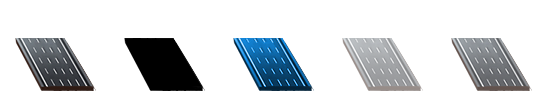
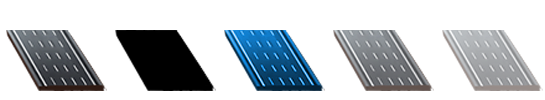
HW 1L to 6L Thumbnails uniformity

diff --git a/Transit.Addon.RoadExtensions/Highways/VanillaHighwayMenuModifier.cs b/Transit.Addon.RoadExtensions/Highways/VanillaHighwayMenuModifier.cs
@@ -1,0 +1,43 @@
+using Transit.Framework;
+using Transit.Framework.Builders;
+using Transit.Framework.Modularity;
+
+namespace Transit.Addon.RoadExtensions.Highways
+{
+    public class VanillaHighwayMenuModifier : IModulePart, INetInfoModifier
+    {
+        public string Name{ get { return "Vanilla Highway Menu Modifier"; } }
+
+        public void ModifyExistingNetInfo()
+        {
+            var highwayRampInfo = Prefabs.Find<NetInfo>(NetInfos.Vanilla.HIGHWAY_RAMP, false);
+            if (highwayRampInfo != null)
+            {
+                highwayRampInfo.m_UIPriority = 5;
+                var thumbnails = AssetManager.instance.GetThumbnails(NetInfos.Vanilla.HIGHWAY_RAMP, @"Highways\HighwayRamp\thumbnails.png");
+                highwayRampInfo.m_Atlas = thumbnails;
+                highwayRampInfo.m_Thumbnail = thumbnails.name;
+            }
+
+            var highway3L = Prefabs.Find<NetInfo>(NetInfos.Vanilla.HIGHWAY_3L, false);
+            if (highway3L != null)
+            {
+                highway3L.m_UIPriority = 30;
+                var thumbnails = AssetManager.instance.GetThumbnails(NetInfos.Vanilla.HIGHWAY_3L, @"Highways\Highway3L\thumbnails.png");
+                highway3L.m_Atlas = thumbnails;
+                highway3L.m_Thumbnail = thumbnails.name;
+                highway3L.ModifyTitle("Three-Lane Highway");
+            }
+
+            var highway3LBarrier = Prefabs.Find<NetInfo>(NetInfos.Vanilla.HIGHWAY_3L_BARRIER, false);
+            if (highway3LBarrier != null)
+            {
+                highway3LBarrier.m_UIPriority = 35;
+                var thumbnails = AssetManager.instance.GetThumbnails(NetInfos.Vanilla.HIGHWAY_3L_BARRIER, @"Highways\Highway3LBarrier\thumbnails.png");
+                highway3LBarrier.m_Atlas = thumbnails;
+                highway3LBarrier.m_Thumbnail = thumbnails.name;
+                highway3LBarrier.ModifyTitle("Three-Lane Highway with Sound Barrier");
+            }
+        }
+    }
+}

diff --git a/Transit.Addon.RoadExtensions/Roads/MediumAvenue4L/MediumAvenue4LBuilder.cs b/Transit.Addon.RoadExtensions/Roads/MediumAvenue4L/MediumAvenue4LBuilder.cs
@@ -1,10 +1,6 @@
-using System.Collections.Generic;
-using System.Linq;
-using ColossalFramework;
-using ColossalFramework.Globalization;
+using System.Linq;
 using Transit.Framework;
 using Transit.Framework.Builders;
-using Transit.Framework.Interfaces;
 
 namespace Transit.Addon.RoadExtensions.Roads.MediumAvenue4L
 {
@@ -136,19 +132,10 @@ namespace Transit.Addon.RoadExtensions.Roads.MediumAvenue4L
 
         public void ModifyExistingNetInfo()
         {
-            var localizedStringsField = typeof(Locale).GetFieldByName("m_LocalizedStrings");
-            var locale = SingletonLite<LocaleManager>.instance.GetLocale();
-            var localizedStrings = (Dictionary<Locale.Key, string>)localizedStringsField.GetValue(locale);
-
-            var kvp =
-                localizedStrings
-                .FirstOrDefault(kvpInternal =>
-                    kvpInternal.Key.m_Identifier == "NET_TITLE" &&
-                    kvpInternal.Key.m_Key == NetInfos.Vanilla.AVENUE_4L);
-
-            if (!Equals(kvp, default(KeyValuePair<Locale.Key, string>)))
+            var avenue4L = Prefabs.Find<NetInfo>(NetInfos.Vanilla.AVENUE_4L, false);
+            if (avenue4L != null)
             {
-                localizedStrings[kvp.Key] = "Four-Lane Road with Median";
+                avenue4L.ModifyTitle("Four-Lane Road with Median");
             }
         }
     }

diff --git a/Transit.Framework/_Extensions/NetInfoExtensions.cs b/Transit.Framework/_Extensions/NetInfoExtensions.cs
@@ -1,8 +1,8 @@
 using System;
+using System.Collections.Generic;
 using System.Linq;
-using System.Reflection;
-using UnityEngine;
-using Object = UnityEngine.Object;
+using ColossalFramework;
+using ColossalFramework.Globalization;
 
 #if DEBUG
 using Debug = Transit.Framework.Debug;
@@ -67,6 +67,24 @@ namespace Transit.Framework
             }
 
             return lane;
+        }
+
+        public static void ModifyTitle(this NetInfo info, string newTitle)
+        {
+            var localizedStringsField = typeof(Locale).GetFieldByName("m_LocalizedStrings");
+            var locale = SingletonLite<LocaleManager>.instance.GetLocale();
+            var localizedStrings = (Dictionary<Locale.Key, string>)localizedStringsField.GetValue(locale);
+
+            var kvp =
+                localizedStrings
+                .FirstOrDefault(kvpInternal =>
+                    kvpInternal.Key.m_Identifier == "NET_TITLE" &&
+                    kvpInternal.Key.m_Key == info.name);
+
+            if (!Equals(kvp, default(KeyValuePair<Locale.Key, string>)))
+            {
+                localizedStrings[kvp.Key] = newTitle;
+            }
         }
     }
 }

diff --git a/Transit.Framework/_Extensions/AssetManagerExtensions.cs b/Transit.Framework/_Extensions/AssetManagerExtensions.cs
@@ -1,8 +1,4 @@
-using System;
-using System.Collections.Generic;
-using System.Linq;
-using System.Text;
-using ColossalFramework.UI;
+using ColossalFramework.UI;
 using UnityEngine;
 
 namespace Transit.Framework
@@ -37,7 +33,7 @@ namespace Transit.Framework
             {
                 var sprite = new UITextureAtlas.SpriteInfo
                 {
-                    name = string.Format(thumbnailsName.ToUpper() + "{0}", ts[x]),
+                    name = string.Format(thumbnailsName + "{0}", ts[x]),
                     region = new Rect(
                         (float)(x * iconW) / textureW, 0f,
                         (float)(iconW) / textureW, (float)(iconH) / textureH),

diff --git a/Transit.Addon.RoadExtensions/RExModule.Install.Localization.cs b/Transit.Addon.RoadExtensions/RExModule.Install.Localization.cs
@@ -30,15 +30,7 @@ namespace Transit.Addon.RoadExtensions
                     return false;
                 }
 
-
-                var localeField = typeof (LocaleManager).GetFieldByName("m_Locale");
-                if (localeField == null)
-                {
-                    return false;
-                }
-
-
-                var locale = (Locale) localeField.GetValue(localeManager);
+                var locale = localeManager.GetLocale();
                 if (locale == null)
                 {
                     return false;
